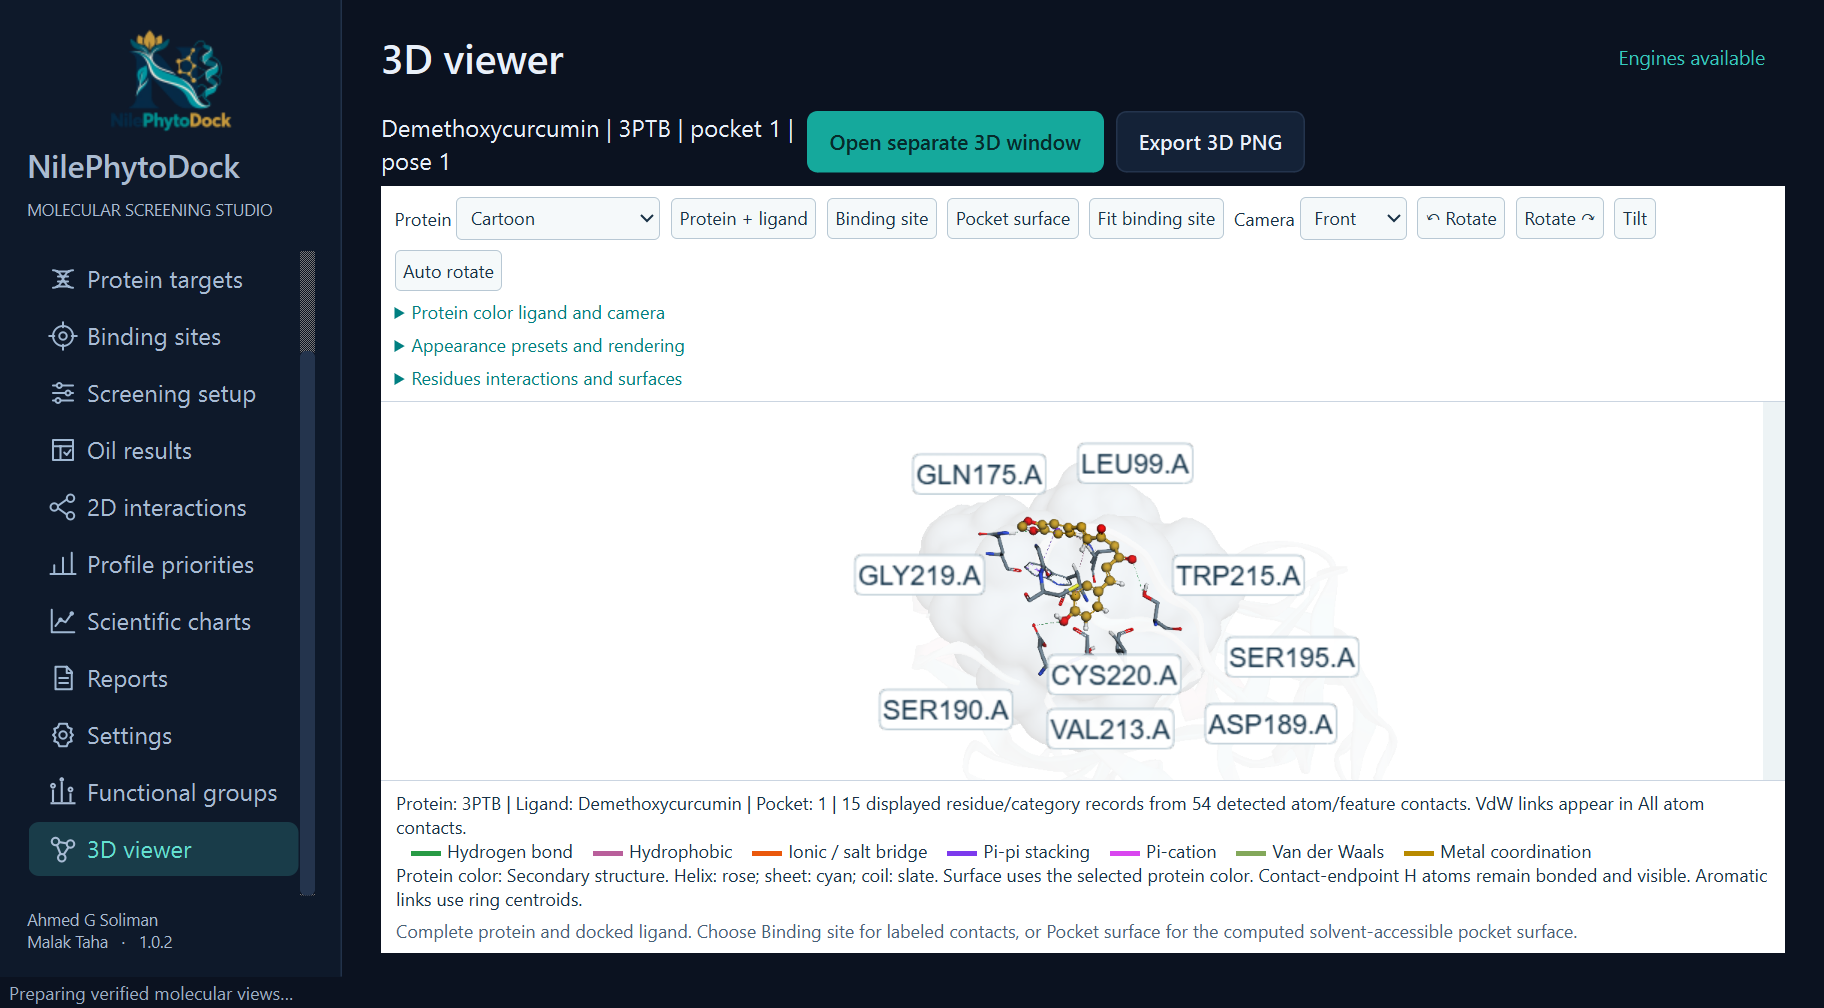
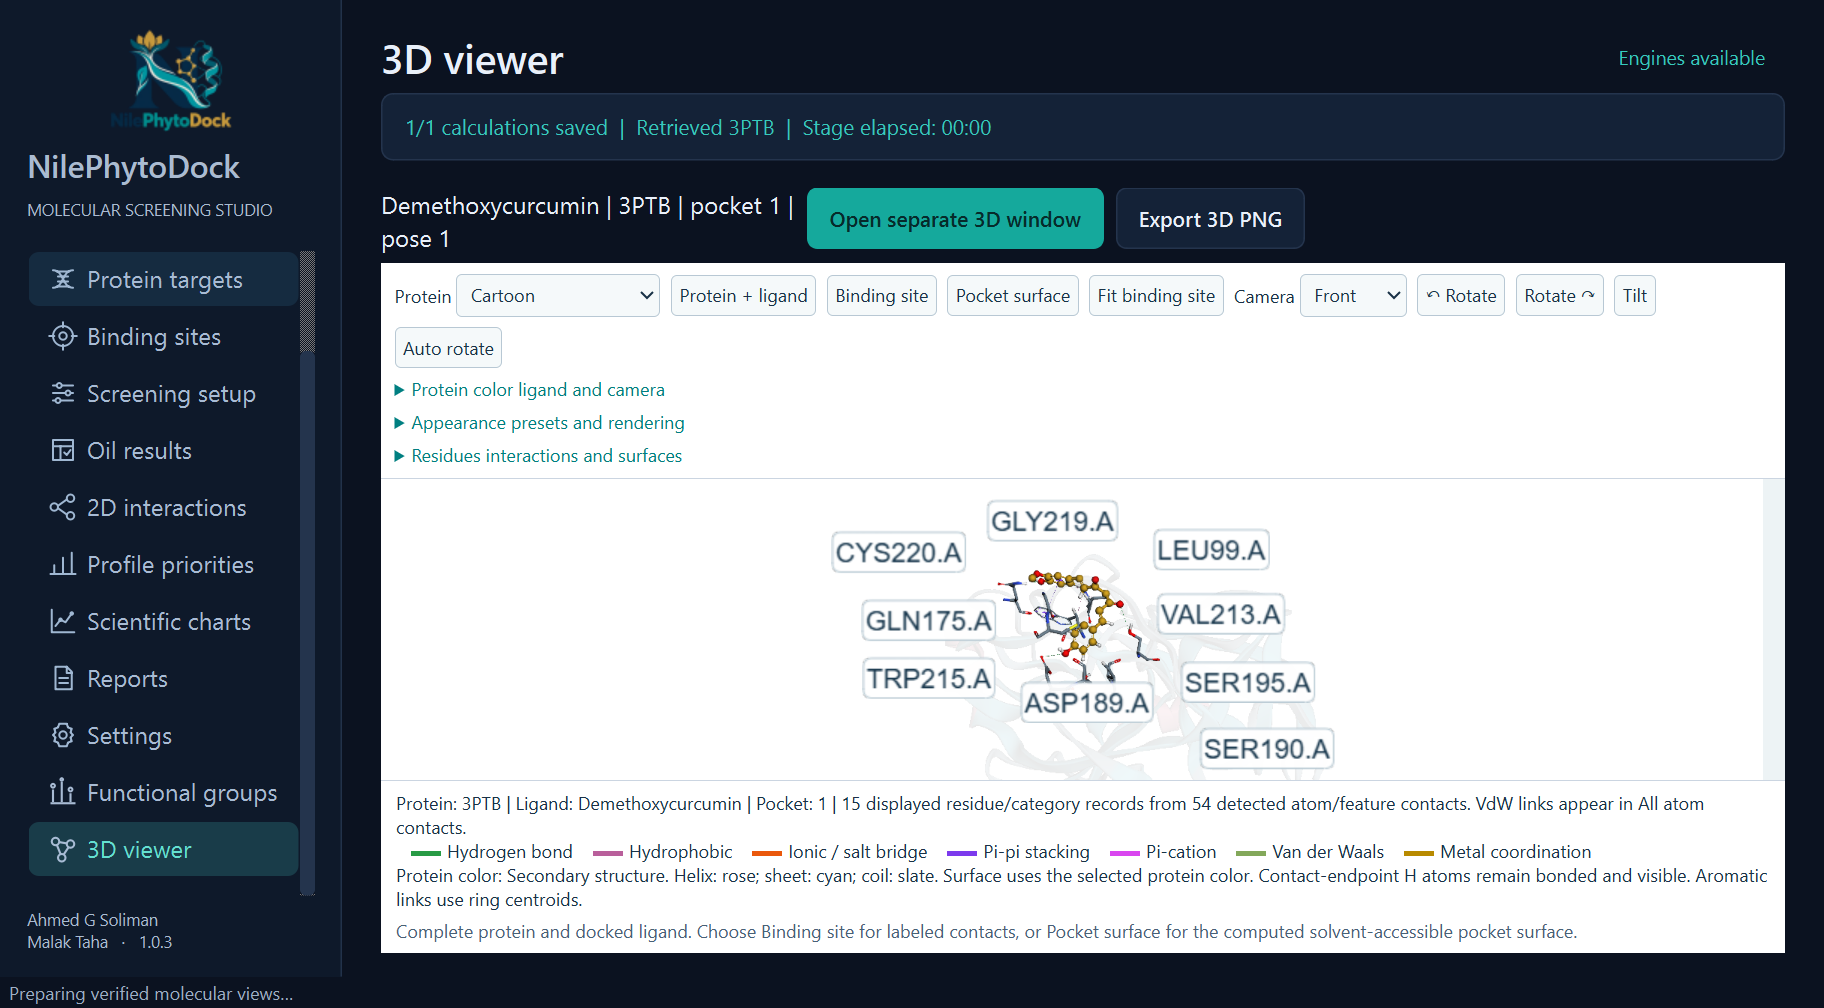
Publish Studio 1.0.3 features and verified screenshots

Changed region(s): [[0.1875, 0.0923, 1.0, 0.4613], [0.4375, 0.4306, 0.75, 0.7688]]

diff --git a/README.md b/README.md
@@ -1,13 +1,13 @@
 <p align="center"><img src="assets/logo.png" width="180" alt="NilePhytoDock logo"></p>
-<h1 align="center">NilePhytoDock Studio v1.0.2</h1>
+<h1 align="center">NilePhytoDock Studio v1.0.3</h1>
 <p align="center">Local molecular screening for botanical oil research.</p>
-<p align="center"><a href="https://github.com/ahmedGSoliman99/NilePhytoDock-Studio/releases/download/v1.0.2/NilePhytoDock-v1.0.2-Setup.exe"><img src="assets/download-windows.svg" width="330" alt="Download NilePhytoDock Studio v1.0.2 for Windows"></a></p>
+<p align="center"><a href="https://github.com/ahmedGSoliman99/NilePhytoDock-Studio/releases/download/v1.0.3/NilePhytoDock-v1.0.3-Setup.exe"><img src="assets/download-windows.svg" width="330" alt="Download NilePhytoDock Studio v1.0.3 for Windows"></a></p>
 
 NilePhytoDock Studio brings source-aware botanical profiles, binding-site prediction, docking and molecular interpretation into an English Windows desktop workspace. Calculations run locally with the included scientific engines.
 
 **One setup download.** Python, Qt, Java, P2Rank, Smina and the scientific libraries are included. Install, launch and choose your research output folder.
 
-**v1.0.2 maintenance update:** bounded background work, on-demand molecular views, asynchronous result loading and reliable cancellation/closing. Existing calculations and data are retained.
+**v1.0.3 maintenance update:** live results, functional-group summaries and shared-group analysis while screening continues; per-pose progress and a persistent stage timer. Analysis reports its selected scope and saves exportable results. Command rows wrap and long pages scroll to keep buttons reachable. Native-output recovery preserves validated molecular identity and docking coordinates. Updates remove superseded installation files while keeping research data and saved settings.
 
 ## Research capabilities
 
@@ -22,7 +22,9 @@ NilePhytoDock Studio brings source-aware botanical profiles, binding-site predic
 
 ## Inside the application
 
-Actual screenshots from NilePhytoDock Studio v1.0.2 using verification studies; these are not interface mockups.
+Actual screenshots from NilePhytoDock Studio v1.0.3 using verification studies; these are not interface mockups.
+
+![Results while screening is still active](https://raw.githubusercontent.com/ahmedGSoliman99/NilePhytoDock-Studio/main/assets/live-results.png)
 
 ![Oil-focused docking results](assets/oil-results.png)
 ![Complete protein and ligand](assets/3d-viewer.png)
@@ -35,7 +37,7 @@ Actual screenshots from NilePhytoDock Studio v1.0.2 using verification studies; 
 
 Windows 10/11 **x64**; 8 GB RAM recommended; 4 GB free space plus research outputs; a 1366 × 768 or larger display and working graphics drivers recommended. No manual Python, Java or scientific-library installation is required. Internet access is required for optional online PDB retrieval and maintenance. The English user guide is installed in the external **Documentation** folder.
 
-**Current release:** v1.0.2. The first official public release remains v1.0.0. The download is unsigned; use the release checksum to verify it.
+**Current release:** v1.0.3. The first official public release remains v1.0.0. The download is unsigned; use the release checksum to verify it.
 
 ## Developers
 
